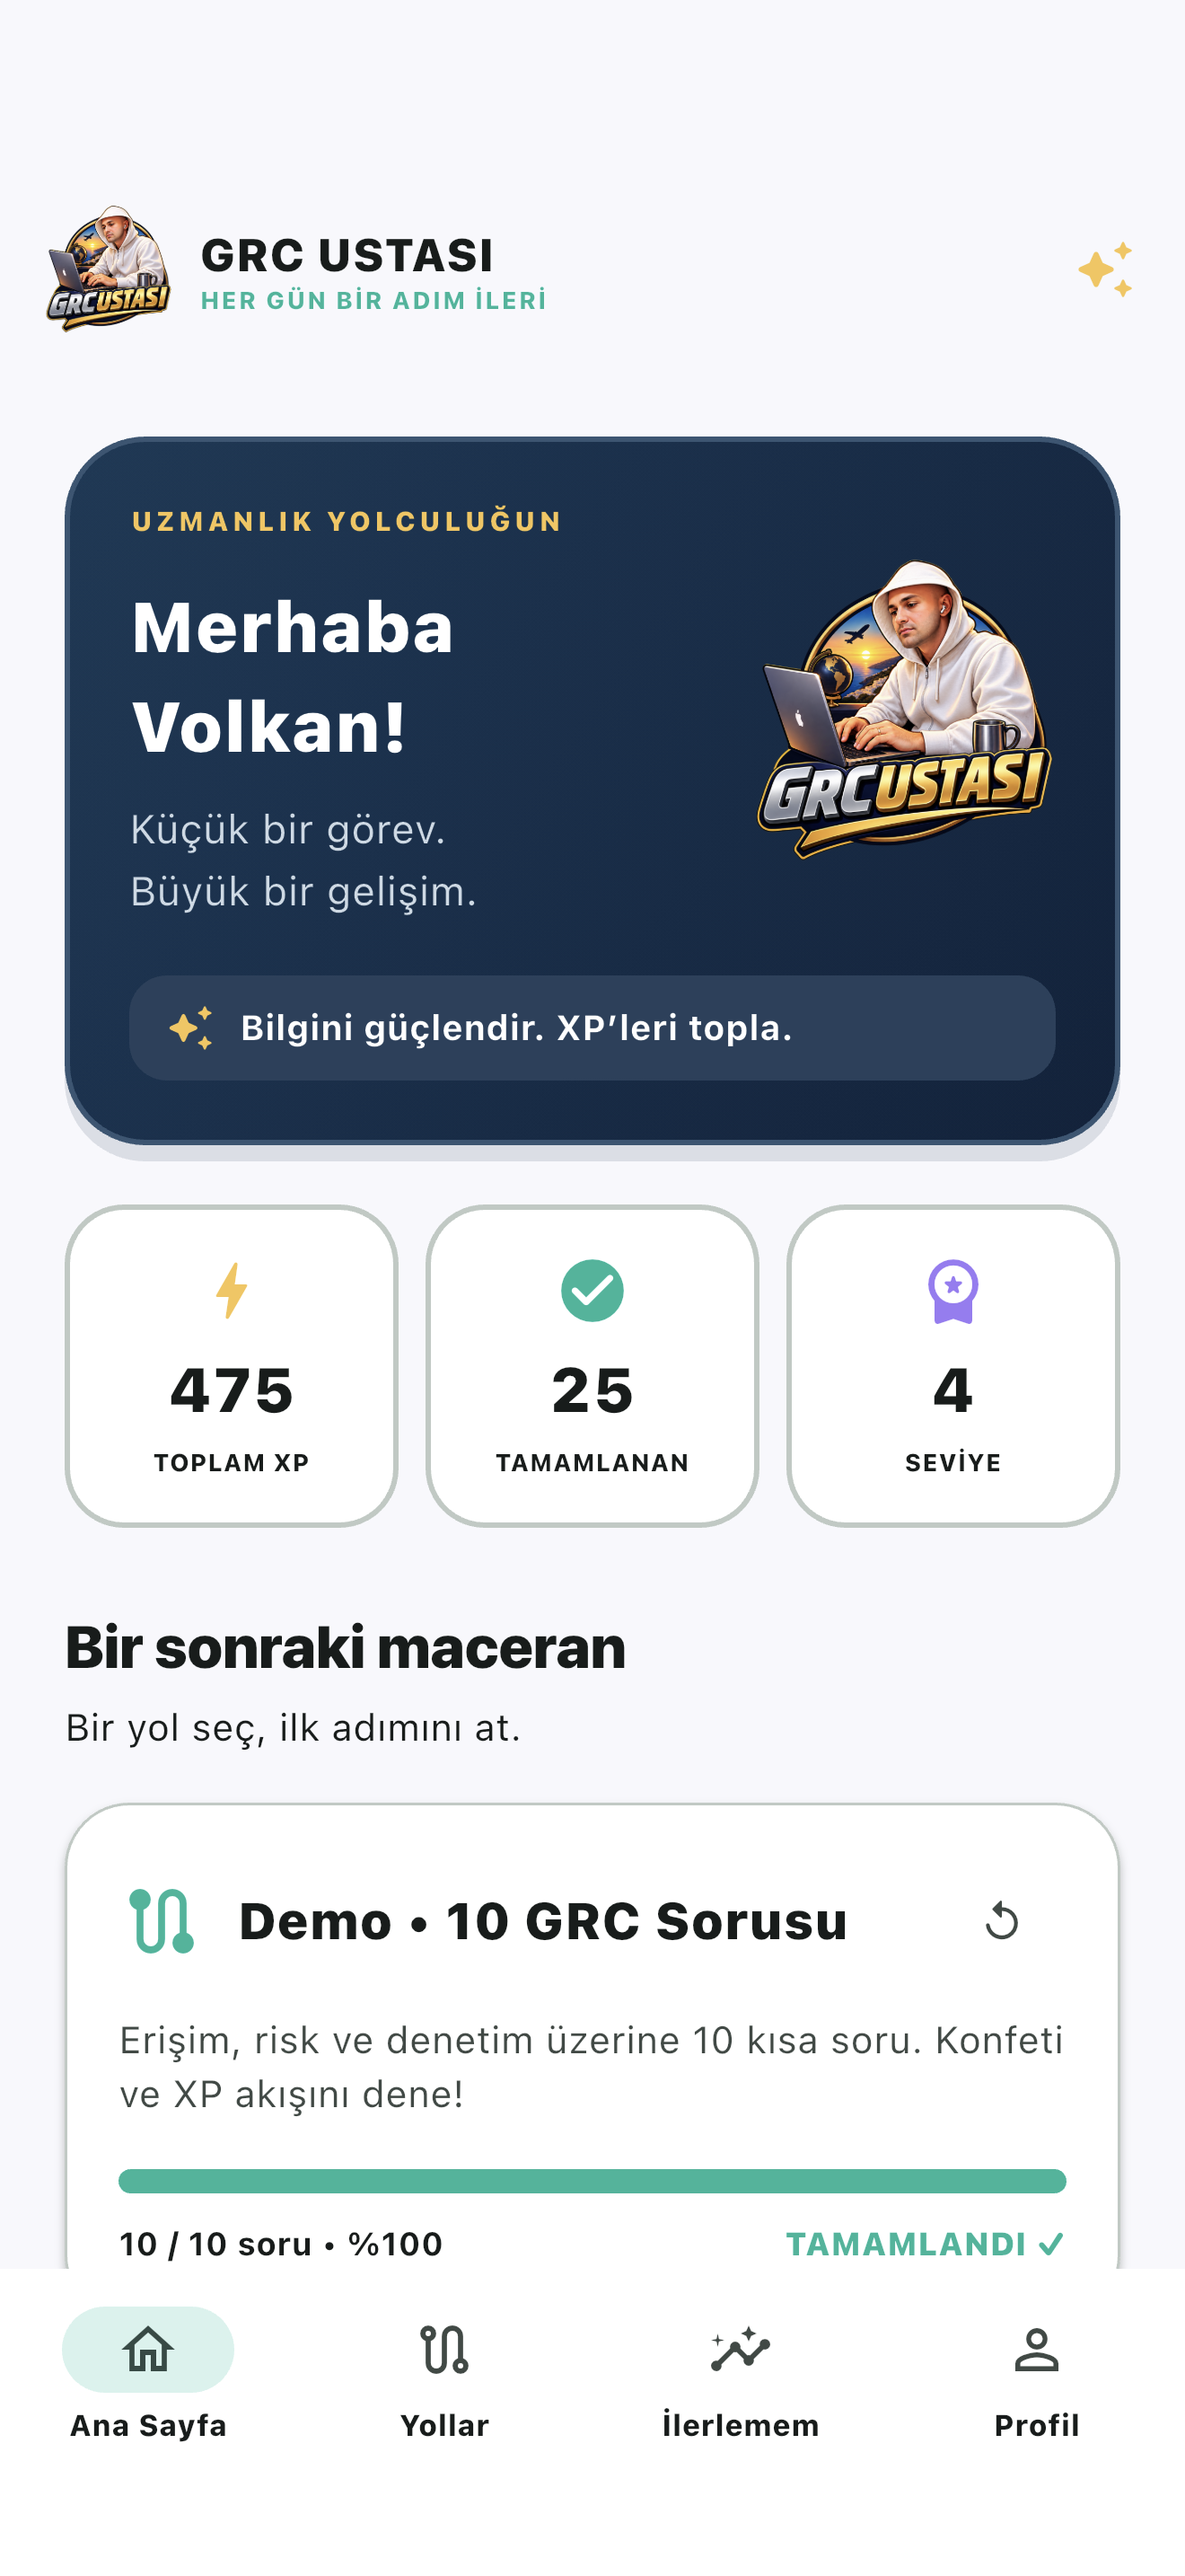
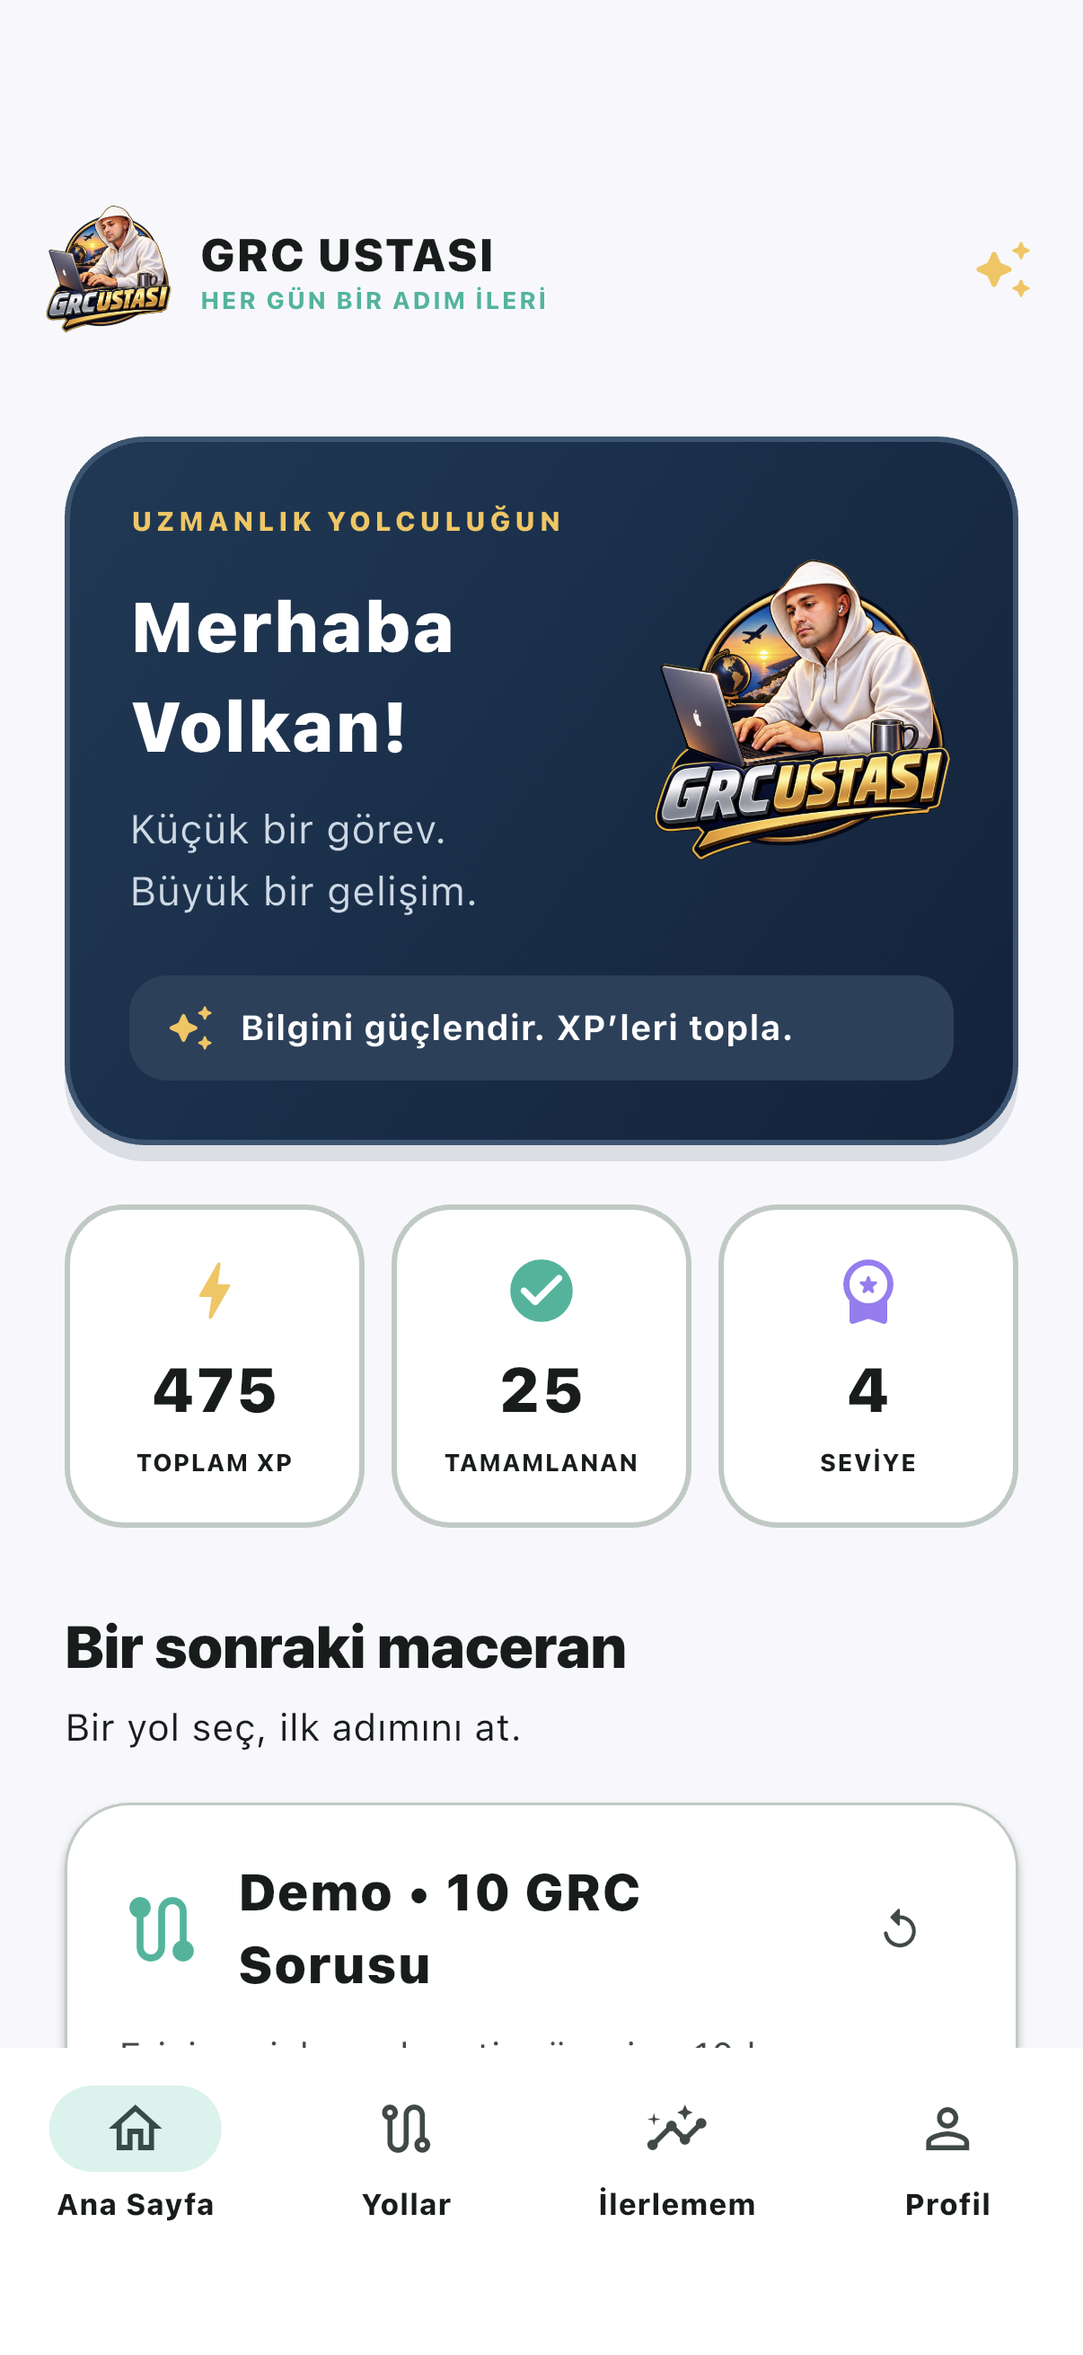
Play protected scenario audio from private HTTPS downloads on iOS

diff --git a/mobile/lib/main.dart b/mobile/lib/main.dart
@@ -6,6 +6,7 @@ import 'package:flutter/material.dart';
 import 'package:flutter/services.dart';
 import 'package:just_audio/just_audio.dart';
 import 'api.dart';
+import 'scenario_audio.dart';
 import 'theme.dart';
 import 'voice.dart';
 import 'paywall.dart';
@@ -674,7 +675,9 @@ class _HomeState extends State<Home> with WidgetsBindingObserver {
                             try {
                               final enabled = await dailyNotifications
                                   .setEnabled(value);
-                              if (!mounted) return;
+                              if (!mounted) {
+                                return;
+                              }
                               setState(() {});
                               if (value && !enabled && context.mounted) {
                                 ScaffoldMessenger.of(context).showSnackBar(
@@ -963,6 +966,8 @@ class _SessionState extends State<Session> {
   }
 
   final player = AudioPlayer();
+  final scenarioAudio = ScenarioAudioFiles(api);
+  bool audioLoading = false;
   int? audioQuestion;
   bool busy = false;
   String? error;
@@ -972,7 +977,7 @@ class _SessionState extends State<Session> {
     dragScrollTimer?.cancel();
     questionScroll.dispose();
     input.dispose();
-    player.dispose();
+    player.dispose().then((_) => scenarioAudio.dispose());
     super.dispose();
   }
 
@@ -1284,38 +1289,59 @@ class _SessionState extends State<Session> {
                           ? Icons.pause
                           : Icons.play_arrow,
                     ),
-                    label: const Text('Senaryoyu dinle'),
-                    onPressed: () async {
-                      try {
-                        if (player.playing) {
-                          await player.pause();
-                        } else {
-                          if (audioQuestion != q['id'] ||
-                              player.audioSource == null ||
-                              player.processingState ==
-                                  ProcessingState.completed) {
-                            audioQuestion = q['id'];
-                            await player.setAudioSources([
-                              for (final url in q['audio'])
-                                AudioSource.uri(
-                                  Uri.parse(url),
-                                  headers: {
-                                    'Authorization': 'Bearer ${api.access}',
-                                  },
-                                ),
-                            ]);
-                          }
-                          player.play();
-                        }
-                      } catch (_) {
-                        if (mounted) {
-                          setState(
-                            () => error =
-                                'Ses yüklenemedi. Tekrar deneyebilirsin.',
-                          );
-                        }
-                      }
-                    },
+                    label: Text(
+                      audioLoading ? 'Ses hazırlanıyor…' : 'Senaryoyu dinle',
+                    ),
+                    onPressed: audioLoading
+                        ? null
+                        : () async {
+                            setState(() {
+                              audioLoading = true;
+                              error = null;
+                            });
+                            try {
+                              if (player.playing) {
+                                await player.pause();
+                              } else {
+                                if (audioQuestion != q['id'] ||
+                                    player.audioSource == null ||
+                                    player.processingState ==
+                                        ProcessingState.completed) {
+                                  await player.stop();
+                                  await scenarioAudio.clear();
+                                  final sources = <AudioSource>[];
+                                  for (final url in q['audio']) {
+                                    final file = await scenarioAudio.download(
+                                      url as String,
+                                    );
+                                    if (!mounted) {
+                                      return;
+                                    }
+                                    sources.add(AudioSource.file(file));
+                                  }
+                                  await player.setAudioSources(sources);
+                                  audioQuestion = q['id'];
+                                }
+                                player.play().catchError((Object e) {
+                                  if (mounted) {
+                                    setState(
+                                      () => error =
+                                          'Ses oynatılamadı. Tekrar deneyebilirsin.',
+                                    );
+                                  }
+                                });
+                              }
+                            } catch (_) {
+                              if (mounted) {
+                                setState(
+                                  () => error =
+                                      'Ses yüklenemedi. Tekrar deneyebilirsin.',
+                                );
+                              }
+                            } finally {
+                              if (mounted) setState(() => audioLoading = false);
+                            }
+                          },
                   ),
                 ),
               if (q['kind'] == 'voice') ...[

diff --git a/mobile/lib/scenario_audio.dart b/mobile/lib/scenario_audio.dart
@@ -1,0 +1,96 @@
+import 'dart:io';
+import 'dart:typed_data';
+import 'package:http/http.dart' as http;
+import 'package:path_provider/path_provider.dart';
+import 'api.dart';
+
+/// Private HTTPS downloads avoid the player's localhost header proxy on iOS.
+class ScenarioAudioFiles {
+  final Api api;
+  final Future<Directory> Function() temporaryDirectory;
+  Directory? _directory;
+  bool _disposed = false;
+  ScenarioAudioFiles(
+    this.api, {
+    Future<Directory> Function()? temporaryDirectory,
+  }) : temporaryDirectory = temporaryDirectory ?? getTemporaryDirectory;
+
+  Future<String> download(String url, {bool retry = true}) async {
+    final uri = Uri.parse(url);
+    final base = Uri.parse(Api.base);
+    if (uri.origin != base.origin ||
+        !uri.path.startsWith('${base.path}audio/')) {
+      throw ApiFailure('Ses adresi geçersiz.');
+    }
+    final request = http.Request('GET', uri)..followRedirects = false;
+    request.headers['Authorization'] = 'Bearer ${api.access}';
+    final response = await api.client
+        .send(request)
+        .timeout(const Duration(seconds: 20));
+    if (response.statusCode == 401 && retry) {
+      await response.stream.drain();
+      await api.refresh();
+      return download(url, retry: false);
+    }
+    if (response.statusCode != 200) {
+      await response.stream.drain();
+      throw ApiFailure('Ses yüklenemedi. Tekrar deneyebilirsin.');
+    }
+    final type = response.headers['content-type']?.split(';').first.trim();
+    final extension = {
+      'audio/mp4': 'm4a',
+      'audio/x-m4a': 'm4a',
+      'audio/mpeg': 'mp3',
+      'audio/wav': 'wav',
+      'audio/x-wav': 'wav',
+      'audio/aac': 'aac',
+      'audio/ogg': 'ogg',
+    }[type];
+    if (extension == null) {
+      await response.stream.drain();
+      throw ApiFailure('Ses dosyasının biçimi desteklenmiyor.');
+    }
+    final bytes = BytesBuilder(copy: false);
+    await for (final chunk in response.stream.timeout(
+      const Duration(seconds: 20),
+    )) {
+      if (bytes.length + chunk.length > 20 * 1024 * 1024) {
+        throw ApiFailure('Ses dosyası çok büyük.');
+      }
+      bytes.add(chunk);
+    }
+    if (bytes.isEmpty || _disposed) {
+      throw ApiFailure('Ses yüklenemedi.');
+    }
+    if (_directory == null) {
+      final root = await temporaryDirectory();
+      _directory = await root.createTemp('grc-scenario-');
+    }
+    if (_disposed) {
+      await clear();
+      throw ApiFailure('Görev kapatıldı.');
+    }
+    final file = File(
+      '${_directory!.path}/${DateTime.now().microsecondsSinceEpoch}.$extension',
+    );
+    await file.writeAsBytes(bytes.takeBytes(), flush: true);
+    if (_disposed) {
+      await clear();
+      throw ApiFailure('Görev kapatıldı.');
+    }
+    return file.path;
+  }
+
+  Future<void> clear() async {
+    final directory = _directory;
+    _directory = null;
+    if (directory != null && await directory.exists()) {
+      await directory.delete(recursive: true);
+    }
+  }
+
+  Future<void> dispose() async {
+    _disposed = true;
+    await clear();
+  }
+}

diff --git a/mobile/test/scenario_audio_test.dart b/mobile/test/scenario_audio_test.dart
@@ -1,0 +1,78 @@
+import 'dart:io';
+import 'package:flutter_test/flutter_test.dart';
+import 'package:http/http.dart' as http;
+import 'package:http/testing.dart';
+import 'package:grc_ustasi/api.dart';
+import 'package:grc_ustasi/scenario_audio.dart';
+
+void main() {
+  test(
+    'authorized audio is downloaded to a typed private file and cleaned up',
+    () async {
+      final root = await Directory.systemTemp.createTemp('grc-audio-test-');
+      addTearDown(() => root.delete(recursive: true));
+      final api = Api(
+        client: MockClient((request) async {
+          expect(request.headers['Authorization'], 'Bearer private-test-token');
+          expect(request.followRedirects, isFalse);
+          return http.Response.bytes(
+            [1, 2, 3],
+            200,
+            headers: {'content-type': 'audio/mp4'},
+          );
+        }),
+      )..access = 'private-test-token';
+      final files = ScenarioAudioFiles(
+        api,
+        temporaryDirectory: () async => root,
+      );
+      final path = await files.download('${Api.base}audio/1/');
+      expect(path.endsWith('.m4a'), isTrue);
+      expect(await File(path).readAsBytes(), [1, 2, 3]);
+      await files.dispose();
+      expect(await File(path).exists(), isFalse);
+    },
+  );
+  test(
+    'other origins and paths never receive an authentication token',
+    () async {
+      int calls = 0;
+      final api = Api(
+        client: MockClient((_) async {
+          calls++;
+          return http.Response('', 200);
+        }),
+      );
+      final files = ScenarioAudioFiles(api);
+      await expectLater(
+        files.download('https://example.com/audio/1/'),
+        throwsA(isA<ApiFailure>()),
+      );
+      await expectLater(
+        files.download('${Api.base}profile/'),
+        throwsA(isA<ApiFailure>()),
+      );
+      expect(calls, 0);
+    },
+  );
+  test('missing and HTML responses cannot be played as audio', () async {
+    for (final status in [404, 200]) {
+      final files = ScenarioAudioFiles(
+        Api(
+          client: MockClient(
+            (_) async => http.Response(
+              '<html/>',
+              status,
+              headers: {'content-type': 'text/html'},
+            ),
+          ),
+        ),
+      );
+      await expectLater(
+        files.download('${Api.base}audio/1/'),
+        throwsA(isA<ApiFailure>()),
+      );
+      await files.dispose();
+    }
+  });
+}

diff --git a/mobile/integration_test/scenario_audio_test.dart b/mobile/integration_test/scenario_audio_test.dart
@@ -1,0 +1,35 @@
+import 'package:flutter_test/flutter_test.dart';
+import 'package:integration_test/integration_test.dart';
+import 'package:just_audio/just_audio.dart';
+import 'package:grc_ustasi/api.dart';
+import 'package:grc_ustasi/scenario_audio.dart';
+
+void main() {
+  IntegrationTestWidgetsFlutterBinding.ensureInitialized();
+  testWidgets('iOS decodes and plays the real protected scenario audio', (
+    tester,
+  ) async {
+    final api = Api();
+    await api.login(
+      const String.fromEnvironment('STORE_DEMO_EMAIL'),
+      const String.fromEnvironment('STORE_DEMO_PASSWORD'),
+    );
+    final files = ScenarioAudioFiles(api);
+    final player = AudioPlayer();
+    try {
+      final path = await files.download('${Api.base}audio/1/');
+      final duration = await player.setFilePath(path);
+      expect(duration, isNotNull);
+      expect(duration!.inMilliseconds, greaterThan(1000));
+      final completion = player.play();
+      await Future<void>.delayed(const Duration(seconds: 2));
+      expect(player.position.inMilliseconds, greaterThan(0));
+      await player.stop();
+      await completion;
+    } finally {
+      await player.dispose();
+      await files.dispose();
+      await api.clear();
+    }
+  });
+}

diff --git a/mobile/lib/api.dart b/mobile/lib/api.dart
@@ -15,7 +15,8 @@ class Api {
     defaultValue: 'https://www.grcustasi.com/api/mobile/v1/',
   );
   final storage = const FlutterSecureStorage();
-  final http.Client client = http.Client();
+  final http.Client client;
+  Api({http.Client? client}) : client = client ?? http.Client();
   String? access;
   Future<void>? refreshing;
   Future<void> restore() async {

diff --git a/mobile/README.md b/mobile/README.md
@@ -194,3 +194,7 @@ Profile also provides privacy information and a password-confirmed account delet
 ## Email verification — build 3
 
 New public mobile registrations return verification_required without issuing JWTs. A signed, email-bound link expires after 24 hours; its GET only displays a CSRF-protected confirmation form. Login, token refresh and authenticated mobile APIs reject unverified accounts. Login provides a throttled, generic resend action. New accounts created by website payment receive the same verification link in their payment email, alongside their initial password. Existing accounts and trusted administrator-created accounts retain access; the admin exposes Mobil e-posta doğrulandı.
+
+## Protected scenario playback — build 4
+
+Scenario audio is fetched through an authenticated HTTPS request and played from an app-private temporary file with a MIME-derived extension. No local HTTP header proxy or ATS exception is required. The downloader rejects other origins, redirects, non-audio responses and files larger than 20 MiB, retries expired authentication once, and deletes session files after player disposal. A native iOS integration test decoded the real production m4a and observed playback advancing. App Store screenshots are now native 1206×2622 captures for the required medium iPhone display slot.
